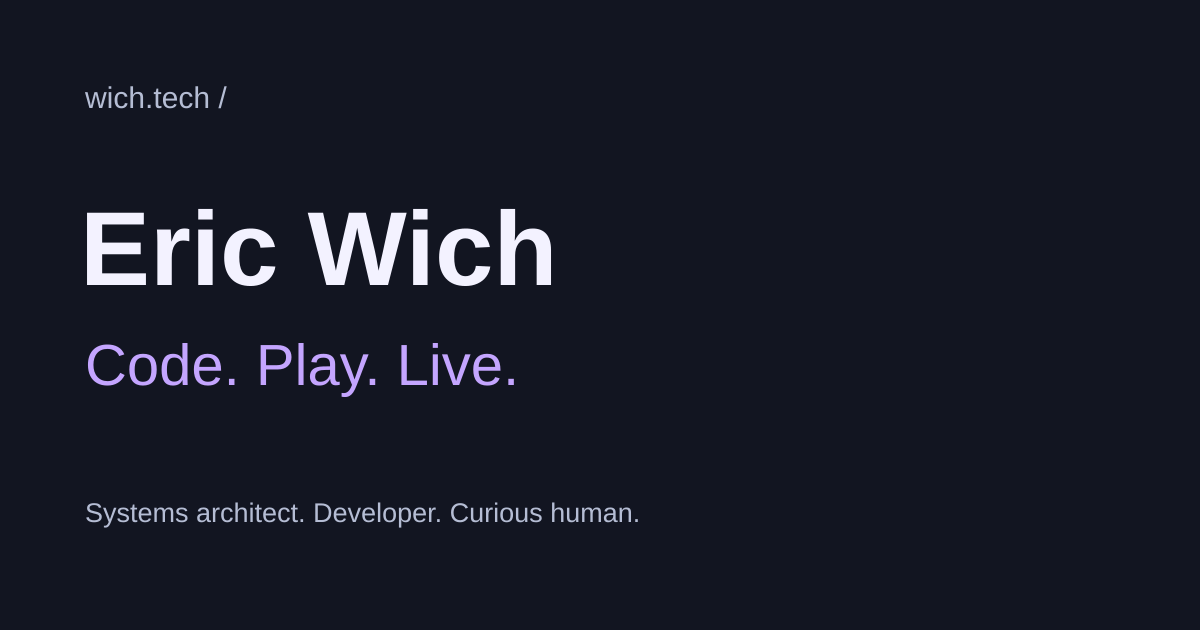
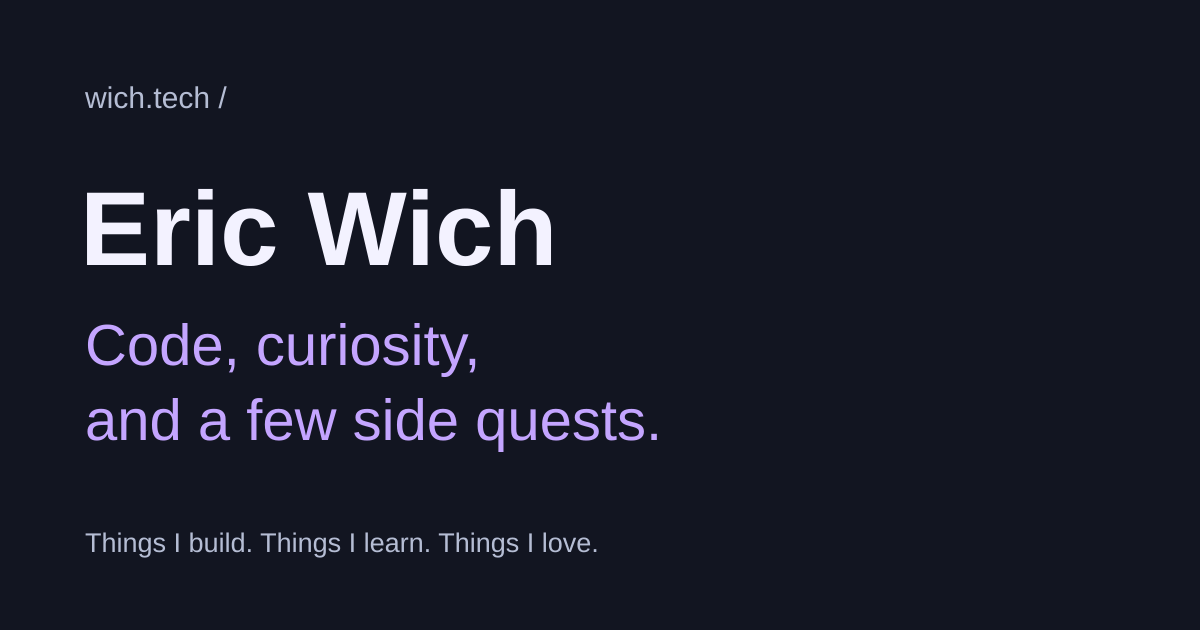
Refresh relaunch social previews and remove decorative interest arrows

Changed region(s): [[0.0617, 0.5127, 0.555, 0.7238], [0.0617, 0.3016, 0.4625, 0.4524], [0.0617, 0.7841, 0.5242, 0.8746]]

diff --git a/src/shared/site.ts b/src/shared/site.ts
@@ -1,8 +1,9 @@
 export const site = {
   name: 'Eric Wich',
-  title: 'Eric Wich — Code. Play. Live.',
+  title: 'Eric Wich — Code, curiosity, and a few side quests.',
+  tagline: 'Code, curiosity, and a few side quests.',
   description:
-    'Systems architect, developer, and curious human. Software projects, practical AI, and notes from a life beyond the keyboard.',
+    'Things I build, things I learn, things I love. Software, games, good food, and ideas worth following.',
   url: 'https://www.wich.tech',
   github: 'https://github.com/erwich',
 };

diff --git a/src/features/about/about.css b/src/features/about/about.css
@@ -23,12 +23,6 @@
   color: var(--muted);
 }
 
-.interests li:before {
-  content: '↗';
-  margin-right: 12px;
-  color: var(--accent);
-}
-
 @media (max-width: 720px) {
   .interests {
     padding-left: 24px;

diff --git a/docs/launch.md b/docs/launch.md
@@ -10,4 +10,4 @@ Build production assets without SITE_PREVIEW, then run npm run deploy. This depl
 
 Recovery: the gh-pages branch and original GitHub Pages configuration are preserved. Removing the two Worker routes returns traffic to the original proxied origin. Previous Worker deployments also provide asset rollback. An archive of origin/gh-pages was prepared locally before cutover.
 
-CI still needs a dedicated Cloudflare API token. Until configured, use the authenticated local Wrangler CLI and leave the GitHub production gate disabled. Web3Forms is configured through the ignored local .env and the PUBLIC_WEB3FORMS_KEY GitHub repository variable. The production form is enabled; recipient inbox delivery still needs an end-to-end submission check. Preview deliberately keeps delivery disabled.
+CI still needs a dedicated Cloudflare API token. Until configured, use the authenticated local Wrangler CLI and leave the GitHub production gate disabled. Web3Forms is configured through the ignored local .env and the PUBLIC_WEB3FORMS_KEY GitHub repository variable. The production form is enabled; Eric confirmed a test submission reached his inbox on October 8, 2026. Preview deliberately keeps delivery disabled.
